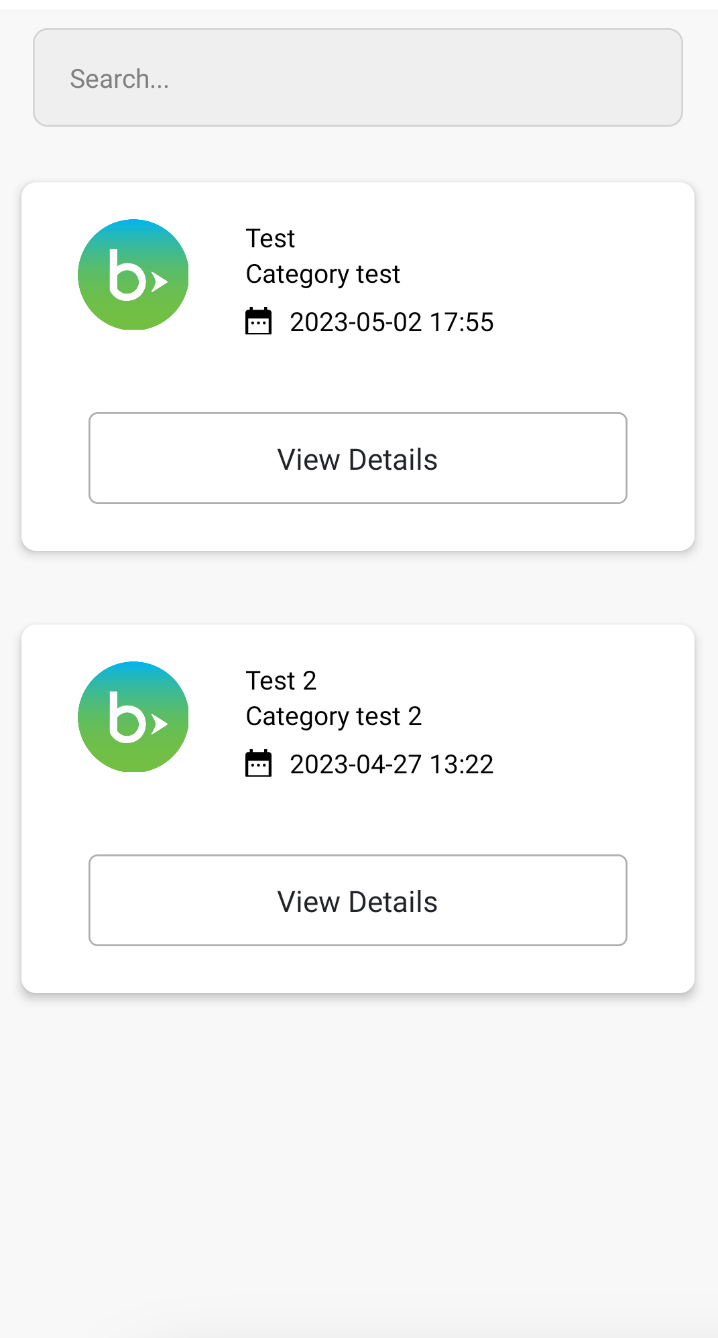
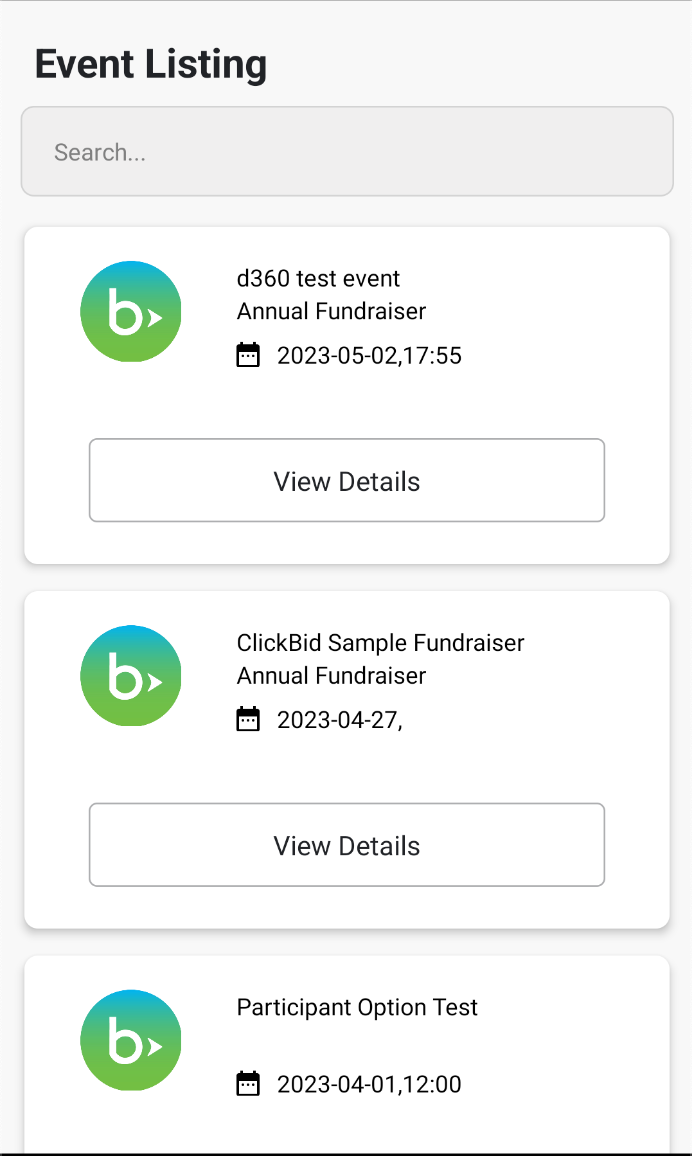
event listing screen

diff --git a/modules/screen-blackbaud-event-listing/index.js b/modules/screen-blackbaud-event-listing/index.js
@@ -1,86 +1,120 @@
-import React, { useState } from "react";
-import { FlatList, Image, Pressable, StyleSheet, Text, TextInput, View } from "react-native";
+import React, { useEffect, useState } from "react"
+import {
+  ActivityIndicator,
+  StyleSheet,
+  Text,
+  View,
+  Image,
+  TextInput,
+  FlatList,
+  Pressable
+} from "react-native"
+import { eventList } from "../../modules/blackbaud/store"
+import { useDispatch, useSelector } from "react-redux"
 
-const EventListing = ({
-  navigation
-}) => {
-  const [searchText, setSearchText] = useState("");
-  const events = [{
-    id: "1",
-    name: "Test",
-    start_date: "2023-05-02",
-    start_time: "17:55",
-    category: {
-      name: "Category test"
-    }
-  }, {
-    id: "2",
-    name: "Test 2",
-    start_date: "2023-04-27",
-    start_time: "13:22",
-    category: {
-      name: "Category test 2"
-    }
-  }];
-
+const EventListing = ({ navigation }) => {
+  const dispatch = useDispatch()
+  const { entities: events } = useSelector(state => state.Events.eventList)
+  const loading = useSelector(state => state.Events.eventList.api.loading)
+  const token = useSelector(state => state.Events.accessToken)
+  useEffect(() => {
+    dispatch(eventList(token))
+  }, [])
+  const [searchText, setSearchText] = useState("")
   function searchEvents() {
     const filteredObjs = events?.filter(obj => {
-      const str = JSON.stringify(obj).toLowerCase();
-      return str.includes(searchText.toLowerCase());
-    });
-    return filteredObjs;
+      const str = JSON.stringify(obj).toLowerCase()
+      return str.includes(searchText.toLowerCase())
+    })
+    return filteredObjs
   }
 
-  const eventsToMap = searchText ? searchEvents() : events;
+  const eventsToMap = searchText ? searchEvents() : events
 
   const Item = item => {
-    return <View style={styles.box}>
-      <View style={styles.itemContainer}>
-        <Image source={require("./assets/blackbaudLogo.png")} style={styles.image} resizeMode="contain" />
-        <View style={styles.Txt}>
-          <Text style={styles.titleTxt}>{item?.data?.name}</Text>
+    return (
+      <View style={styles.box}>
+        <View style={styles.GcBtZoqe}>
+          <Image
+            source={require("./assets/blackbaudLogo.png")}
+            style={styles.image}
+            resizeMode="contain"
+          />
+          <View style={styles.Txt}>
+            <Text style={styles.titleTxt}>{item?.data?.name}</Text>
 
-          <View style={styles.nameContainer}>
-            <Text style={styles.addressTxt}>
-              {item?.data?.category?.name}
-            </Text>
-          </View>
+            <View style={styles.RwhMCuJW}>
+              <Text style={styles.addressTxt}>
+                {item?.data?.category?.name}
+              </Text>
+            </View>
 
-          <View style={styles.dateTimeContainer}>
-            <Image source={require("./assets/calendarIcon.png")} style={styles.calendarIcon} />
-            <Text style={styles.dateTxt}>
-              {item?.data?.start_date} {item?.data?.start_time}
-            </Text>
+            <View style={styles.kccFuoDx}>
+              <Image
+                source={require("./assets/calendarIcon.png")}
+                style={styles.phOEFPES}
+              />
+              <Text style={styles.dateTxt}>
+                {item?.data?.start_date},{item?.data?.start_time}
+              </Text>
+            </View>
           </View>
         </View>
+
+        <View style={styles.TqLXmWzz}>
+          <Pressable
+            style={styles.loginButton}
+            onPress={() =>
+              navigation.navigate("blackbaudEventDetails", {
+                id: item?.data?.id
+              })
+            }
+          >
+            <Text style={styles.textColor}>View Details</Text>
+          </Pressable>
+        </View>
       </View>
-
-      <View style={styles.itemActionContainer}>
-
-        <Pressable style={styles.loginButton} onPress={() => navigation.navigate("blackbaudEventDetails", {
-          id: item?.data?.id
-        })} >
-          <Text style={styles.textColor}>
-            View Details
-          </Text>
-        </Pressable>
-
-      </View>
-    </View>;
-  };
+    )
+  }
 
   return (
     <View style={styles.container}>
-      <TextInput placeholder="Search..." style={styles.formInput} onChangeText={setSearchText} placeholderTextColor={"grey"} />
-      <FlatList data={eventsToMap} renderItem={({ item }) => <Item data={item} />} keyExtractor={item => item.id} />
+      <Text style={styles.title}>Event Listing</Text>
+      {loading === "pending" ? (
+        <ActivityIndicator
+          size={"large"}
+          color={"#065171"}
+          style={styles.QYGilPoi}
+        />
+      ) : (
+        <TextInput
+          placeholder="Search..."
+          style={styles.formInput}
+          onChangeText={setSearchText}
+          placeholderTextColor={"grey"}
+        />
+      )}
+
+      <FlatList
+        data={eventsToMap}
+        renderItem={({ item }) => <Item data={item} />}
+        keyExtractor={item => item.id}
+      />
     </View>
-  );
-};
+  )
+}
 
 const styles = StyleSheet.create({
   container: {
     backgroundColor: "#f8f8f8",
     flex: 1
+  },
+  title: {
+    fontSize: 24,
+    fontWeight: "bold",
+    color: "#212327",
+    marginTop: 20,
+    marginLeft: 20
   },
   formInput: {
     backgroundColor: "#d9d5d545",
@@ -90,15 +124,24 @@ const styles = StyleSheet.create({
     borderWidth: 1,
     borderColor: "#D3D3D3",
     marginVertical: 10,
-    marginHorizontal: 20,
+    marginHorizontal: 12,
     color: "#000"
+  },
+  backIconStyles: {
+    height: 20,
+    width: 11
+  },
+  backButtonTouch: {
+    marginLeft: 20,
+    marginVertical: 20,
+    width: 20
   },
   box: {
     height: 200,
     width: "93%",
     backgroundColor: "white",
     alignSelf: "center",
-    marginVertical: 20,
+    marginVertical: 8,
     borderRadius: 8,
     shadowColor: "#000",
     shadowOffset: {
@@ -129,24 +172,53 @@ const styles = StyleSheet.create({
   dateTxt: {
     fontSize: 14
   },
-  dateTimeContainer: {
+  buttonBackground: {
+    marginTop: 20,
+    width: "80%",
+    height: 54,
+    justifyContent: "center",
+    alignItems: "center",
+    borderRadius: 5,
+    borderWidth: 1.2,
+    alignSelf: "center",
+    borderColor: "#aeafb1"
+  },
+  buttonText: {
+    fontSize: 18,
+    color: "#212327",
+    fontWeight: "500"
+  },
+  kccFuoDx: {
     flexDirection: "row",
     alignItems: "center",
     marginTop: 7
   },
-  calendarIcon: {
+  phOEFPES: {
     height: 15,
     width: 14,
     marginRight: 10
   },
-  itemContainer: {
+  ZysPvVGe: {
+    marginTop: 10
+  },
+  QYGilPoi: {
+    alignSelf: "center"
+  },
+  GcBtZoqe: {
     flexDirection: "row"
   },
-  nameContainer: {
+  RwhMCuJW: {
     flexDirection: "row",
     alignItems: "center"
   },
-  itemActionContainer: {
+  vIHnOqvq: {
+    width: 100,
+    height: 50,
+    lineHeight: 14,
+    fontSize: 14,
+    borderRadius: 0
+  },
+  TqLXmWzz: {
     marginTop: 20
   },
   loginButton: {
@@ -167,5 +239,5 @@ const styles = StyleSheet.create({
     color: "#212327",
     fontSize: 16
   }
-});
-export default EventListing;
+})
+export default EventListing
